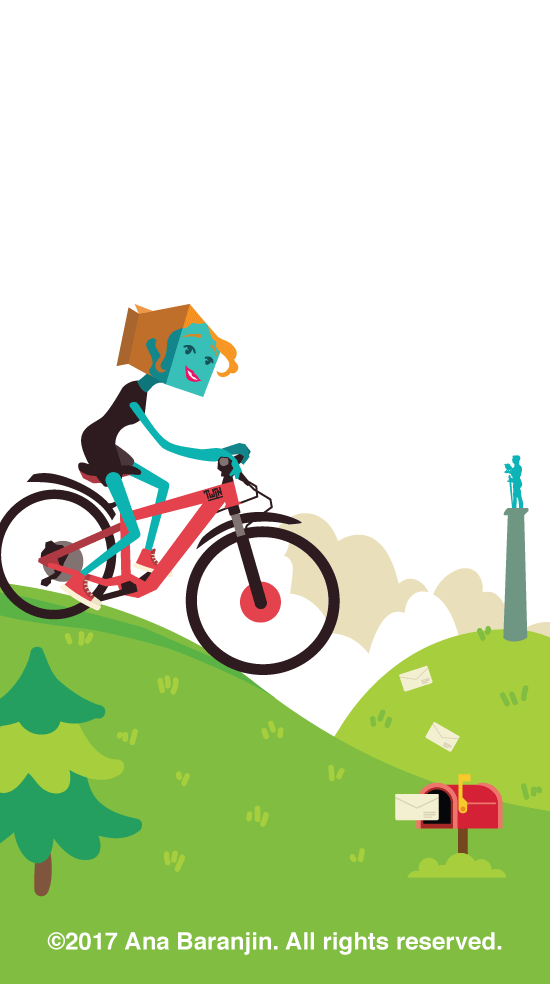
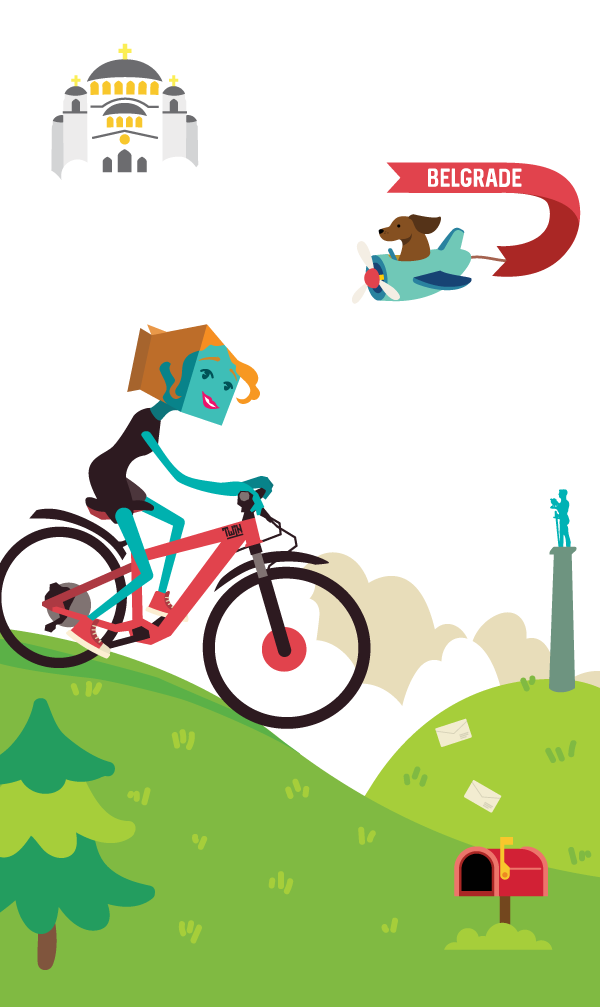
ispravke mobile img

diff --git a/style.css b/style.css
@@ -964,7 +964,7 @@ h6{
 	/* MOBILE Bike Section */
 	/* MOBILE Mobile Image */
 	#bike{
-		background-image: url(images/mobile/footer-mobile2.png);
+		background-image: url(images/mobile/footer-mobile.png);
 		background-color: #f9c82c;
 		background-size: contain;
 		background-position: 100% 100%;
